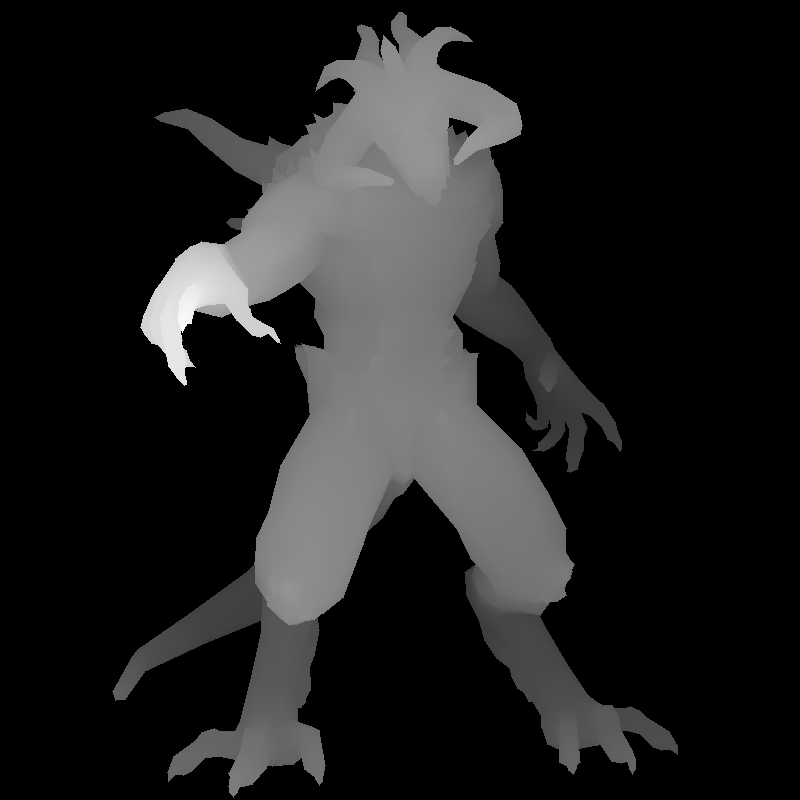
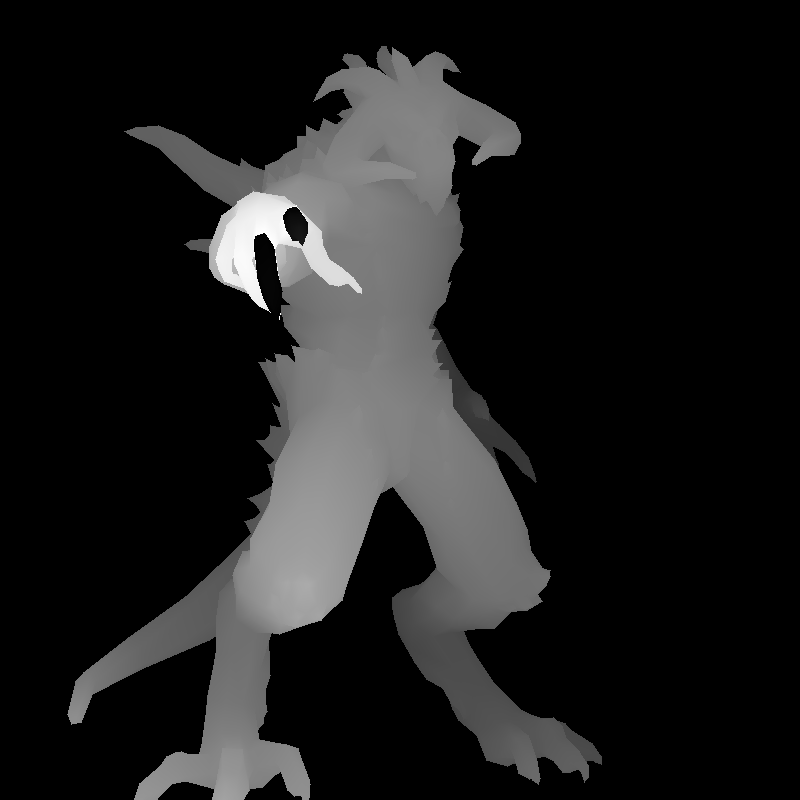
Add moving camera

Changed region(s): [[0.0625, 0.0, 0.8438, 1.0], [0.4688, 0.2188, 0.5, 0.25]]

diff --git a/src/main/kotlin/fr/oyashirox/Camera.kt b/src/main/kotlin/fr/oyashirox/Camera.kt
@@ -1,0 +1,65 @@
+package fr.oyashirox
+
+import fr.oyashirox.math.Matrix
+import fr.oyashirox.math.Vector
+
+@Suppress("MemberVisibilityCanBePrivate", "CanBeParameter")
+class Camera(val position: Vector, val width: Int, val height: Int) {
+    val halfWidth = (width - 1) / 2.0
+    val halfHeight = (height - 1) / 2.0
+    val depth = 255.0
+
+    private lateinit var z: Vector
+    private lateinit var x: Vector
+    private lateinit var y: Vector
+
+    /** Transform world coordinates to camera coordinates */
+    private lateinit var modelViewMatrix: Matrix
+
+    /** Transform camera coordinates to clip coordinates */
+    private lateinit var perspectiveMatrix: Matrix
+
+    /** Transform clip coordinates to screen coordinates */
+    private val viewportMatrix = Matrix(4, true).apply {
+        // diagonal
+        // Scale [-1,1] to [-halfWidth,halfWidth], same for height and to [-127.5,127.5] for depth
+        this[0, 0] = halfWidth
+        this[1, 1] = halfHeight
+        this[2, 2] = depth / 2
+
+        // rencenter so we get into [0, width], or [0, 255]
+        this[0, 3] = halfWidth
+        this[1, 3] = halfHeight
+        this[2, 3] = depth / 2
+    }
+
+    val combinedMatrix: Matrix
+        get() = viewportMatrix * perspectiveMatrix * modelViewMatrix
+
+    init {
+        lookAt(Vector(0.0, 0.0, 0.0))
+    }
+
+    fun lookAt(target: Vector, up: Vector = Vector(0.0, 1.0, 0.0)) {
+        val bases = Matrix(4)
+        val translation = Matrix(4)
+
+        z = (position - target).normalize()
+        x = up.cross(z).normalize()
+        y = z.cross(x).normalize()
+
+        bases[0] = x
+        bases[1] = y
+        bases[2] = z
+
+        translation[0, 3] = -target.x
+        translation[1, 3] = -target.y
+        translation[2, 3] = -target.z
+
+        perspectiveMatrix = Matrix(4, true).apply {
+            this[3, 2] = -1.0 / (position - target).length()
+        }
+
+        modelViewMatrix = bases * translation
+    }
+}

diff --git a/src/main/kotlin/fr/oyashirox/Renderer.kt b/src/main/kotlin/fr/oyashirox/Renderer.kt
@@ -3,7 +3,6 @@
 package fr.oyashirox
 
 import fr.oyashirox.math.Color
-import fr.oyashirox.math.Matrix
 import fr.oyashirox.math.Point
 import fr.oyashirox.math.Vector
 import fr.oyashirox.model.Model
@@ -12,29 +11,10 @@ import kotlin.random.Random
 
 /** Use this class to render a model on a canvas*/
 @Suppress("MemberVisibilityCanBePrivate")
-class Renderer(val canvas: Canvas) {
-    val halfWidth = (canvas.image.width - 1) / 2.0
-    val halfHeight = (canvas.image.height - 1) / 2.0
-    val depth = 255.0
-    val distance = 5.0
-    val viewport = Matrix(4, true).apply {
-        // diagonal
-        // Scale [-1,1] to [-halfWidth,halfWidth], same for height and to [-127.5,127.5] for depth
-        this[0, 0] = halfWidth
-        this[1, 1] = halfHeight
-        this[2, 2] = depth / 2
-
-        // rencenter so we get into [0, width], or [0, 255]
-        this[0, 3] = halfWidth
-        this[1, 3] = halfHeight
-        this[2, 3] = depth / 2
-    }
-    val projection = Matrix(4, true).apply {
-        this[3, 2] = -1.0 / distance
-    }
+class Renderer(val canvas: Canvas, val camera: Camera) {
 
     private fun mapToScreen(world: Vector): Point {
-        val vector = (viewport * projection * world.toMatrix()).toVector()
+        val vector = (camera.combinedMatrix * world.toMatrix()).toVector()
         return vector.toPoint()
     }
 

diff --git a/src/main/kotlin/fr/oyashirox/Main.kt b/src/main/kotlin/fr/oyashirox/Main.kt
@@ -8,6 +8,7 @@ import java.awt.Desktop
 import java.nio.file.Paths
 import kotlin.system.measureTimeMillis
 
+@Suppress("unused")
 fun debugDepth(canvas: Canvas) {
     val image = canvas.debugDepth()
     image.flipVertically()
@@ -18,7 +19,8 @@ fun debugDepth(canvas: Canvas) {
 fun main() {
     val image = Image(800, 800)
     val canvas = Canvas(image)
-    val renderer = Renderer(canvas)
+    val camera = Camera(Vector(-1.0, -0.5, 3.0), image.width, image.height)
+    val renderer = Renderer(canvas, camera)
 
     val objFolder = Paths.get(".", "obj").normalize()
     val africanHeadFile = objFolder.resolve("diablo.obj").toFile()
@@ -27,6 +29,7 @@ fun main() {
     val texture = Texture.loadFromFile(africanHeadTexture)
 
     val time = measureTimeMillis {
+        renderer.camera.lookAt(Vector(0.0, 0.0, 0.0))
         renderer.render(model, texture, Vector(0.0, 0.0, -1.0).normalize())
         image.flipVertically()
     }

diff --git a/src/main/kotlin/fr/oyashirox/math/Matrix.kt b/src/main/kotlin/fr/oyashirox/math/Matrix.kt
@@ -10,6 +10,12 @@ class Matrix(val size: Int = 4, identity: Boolean = true) {
     }
 
     operator fun get(row: Int) = values.slice((row * size)..(((row + 1) * size) - 1))
+    operator fun set(row: Int, v: Vector) {
+        values[row * size] = v.x
+        values[row * size + 1] = v.y
+        values[row * size + 2] = v.z
+        values[row * size + 3] = 0.0
+    }
 
     operator fun times(other: Matrix): Matrix {
         if (size != other.size) throw IllegalStateException("Matrix should be of the same size")
